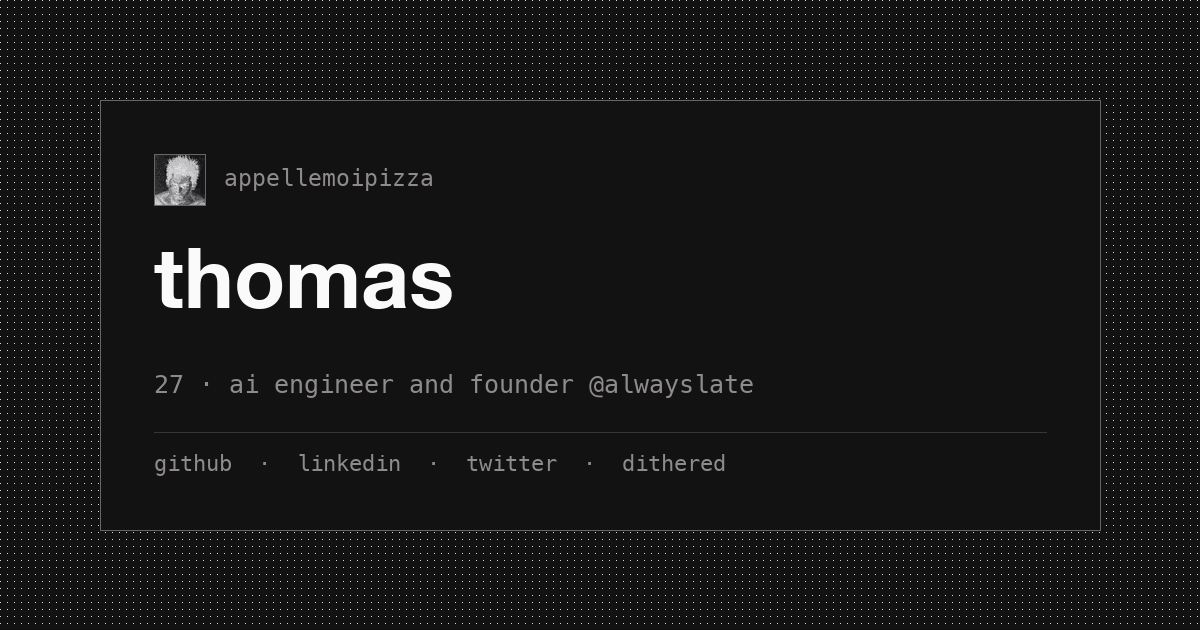
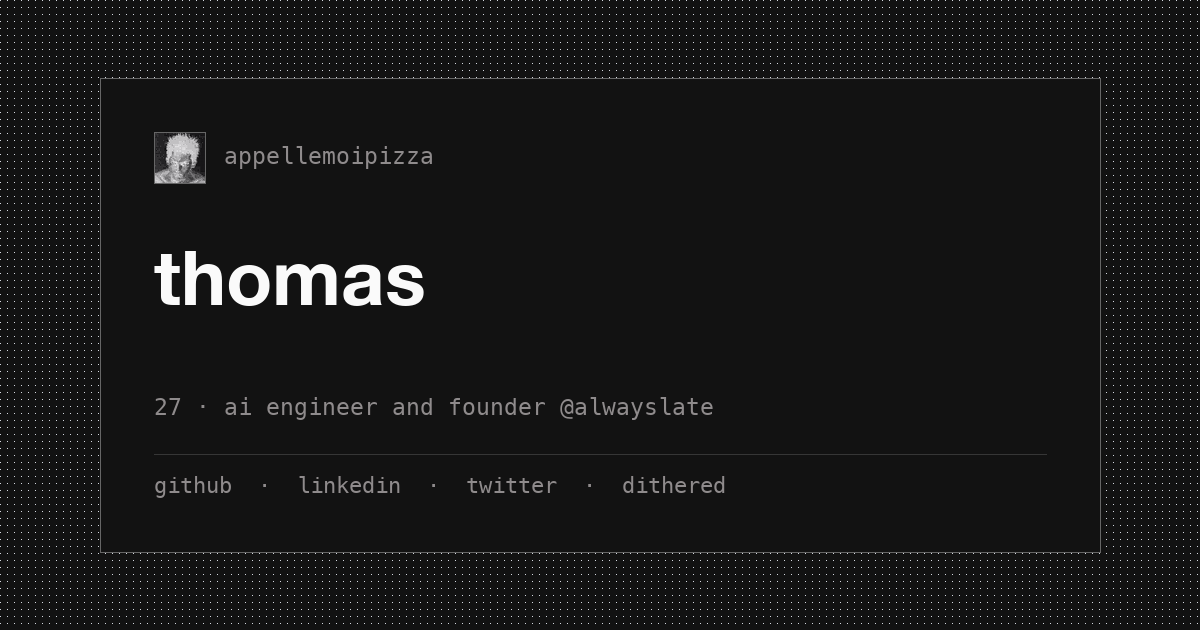
Generate a share card per article
Every post shared the same blog card, so a link to one article looked
identical to a link to any other. Add scripts/generate-og.py, which
reads each published note's frontmatter and renders a card carrying its
title, summary, date and read time in the existing GitHub-card layout.
Articles pass their own image through a new ogImage prop; other pages
keep the standing card.

Titles step down through a size ladder until the wrapped result fits
its vertical budget, so a long headline shrinks instead of riding up
into the identity row.

Run `npm run og` after adding or retitling a post and commit the
output: the deploy action installs Node only, so these are built here
rather than in CI.

Also fix the deploy smoke test, which still grepped the homepage for a
pseudonym removed several commits ago and so failed every run after
the site had already deployed.

diff --git a/scripts/generate-og.py b/scripts/generate-og.py
@@ -1,0 +1,193 @@
+#!/usr/bin/env python3
+"""Generate Open Graph share cards.
+
+Produces one card per published note, plus the two standing cards for the
+blog index and the id card page. Run via `npm run og` after adding or
+retitling a post, then commit the results: the deploy action installs only
+Node, so these are built here rather than in CI.
+"""
+
+import re
+from datetime import date
+from pathlib import Path
+
+from PIL import Image, ImageDraw, ImageFont, ImageOps
+
+ROOT = Path(__file__).resolve().parent.parent
+NOTES = ROOT / "src/data/notes"
+ASSETS = ROOT / "public/assets"
+OUT = ASSETS / "og"
+
+W, H = 1200, 630
+BG = (18, 18, 18, 255)
+BORDER = (102, 102, 102, 255)
+INK = (250, 250, 250, 255)
+MUTED = (143, 139, 140, 255)
+SOFT = (54, 54, 54, 255)
+
+BOLD = "/System/Library/Fonts/HelveticaNeue.ttc"
+MONO = "/System/Library/Fonts/Menlo.ttc"
+
+CX0, CY0, CX1, CY1 = 100, 78, W - 100, H - 78
+PAD = 54
+INNER = (CX1 - PAD) - (CX0 + PAD)
+
+
+def frame():
+    img = Image.new("RGBA", (W, H), BG)
+    d = ImageDraw.Draw(img)
+    for y in range(0, H, 7):
+        for x in range(0, W, 7):
+            d.point((x, y), fill=(212, 216, 224, 30))
+    d.rectangle([CX0, CY0, CX1, CY1], fill=BG, outline=BORDER, width=1)
+    return img, d
+
+
+def avatar(size):
+    av = ImageOps.invert(Image.open(ASSETS / "avatar-dither.png").convert("RGB"))
+    return av.resize((size, size), Image.LANCZOS).convert("RGBA")
+
+
+def wrap(d, text, font, width, max_lines):
+    """Greedy wrap measured against the real font, ellipsing any overflow."""
+    words, lines, cur = text.split(), [], ""
+    for word in words:
+        trial = f"{cur} {word}".strip()
+        if d.textlength(trial, font=font) <= width or not cur:
+            cur = trial
+        else:
+            lines.append(cur)
+            cur = word
+            if len(lines) == max_lines:
+                break
+    if cur and len(lines) < max_lines:
+        lines.append(cur)
+    if len(lines) == max_lines and len(" ".join(lines).split()) < len(words):
+        while lines[-1] and d.textlength(lines[-1] + "...", font=font) > width:
+            lines[-1] = lines[-1].rsplit(" ", 1)[0]
+        lines[-1] += "..."
+    return lines
+
+
+def compose(out, ident, desc, meta, title_img=None, title_text=None):
+    img, d = frame()
+    tx = CX0 + PAD
+
+    AV = 52
+    ay = CY0 + PAD
+    img.alpha_composite(avatar(AV), (tx, ay))
+    d.rectangle([tx, ay, tx + AV - 1, ay + AV - 1], outline=BORDER, width=1)
+    f_ident = ImageFont.truetype(MONO, 23)
+    ib = d.textbbox((0, 0), ident, font=f_ident)
+    d.text((tx + AV + 18 - ib[0], ay + (AV - (ib[3] - ib[1])) // 2 - ib[1]),
+           ident, font=f_ident, fill=MUTED)
+
+    # footer pinned to the bottom, the title block fills what remains
+    div_y = CY1 - PAD - 44
+    d.line([tx, div_y, CX1 - PAD, div_y], fill=SOFT, width=1)
+    f_meta = ImageFont.truetype(MONO, 22)
+    mb = d.textbbox((0, 0), meta, font=f_meta)
+    d.text((tx - mb[0], div_y + 22 - mb[1]), meta, font=f_meta, fill=MUTED)
+
+    f_desc = ImageFont.truetype(MONO, 23)
+    desc_lines = wrap(d, desc, f_desc, INNER, 2)
+    desc_lh = 31
+    desc_block = desc_lh * len(desc_lines)
+    desc_y = div_y - 26 - desc_block
+
+    title_top = ay + AV + 34
+    budget = desc_y - 24 - title_top
+
+    if title_img:
+        src = Image.open(title_img).convert("RGBA")
+        white = Image.new("RGBA", src.size, INK)
+        src = Image.composite(white, Image.new("RGBA", src.size, (0, 0, 0, 0)), src.split()[3])
+        tw = 430
+        src = src.resize((tw, round(src.height * tw / src.width)), Image.NEAREST)
+        img.alpha_composite(src, (tx, title_top + (budget - src.height) // 2))
+    else:
+        # step the size down until the wrapped title fits its budget, rather
+        # than letting a long title ride up into the identity row
+        for size in (76, 70, 64, 58, 52, 46, 42):
+            f_title = ImageFont.truetype(BOLD, size, index=1)
+            lines = wrap(d, title_text, f_title, INNER, 3)
+            lh = round(size * 1.16)
+            if lh * len(lines) <= budget:
+                break
+        y = title_top + (budget - lh * len(lines)) // 2
+        for line in lines:
+            tb = d.textbbox((0, 0), line, font=f_title)
+            d.text((tx - tb[0], y - tb[1]), line, font=f_title, fill=INK)
+            y += lh
+
+    y = desc_y
+    for line in desc_lines:
+        db = d.textbbox((0, 0), line, font=f_desc)
+        d.text((tx - db[0], y - db[1]), line, font=f_desc, fill=MUTED)
+        y += desc_lh
+
+    out.parent.mkdir(parents=True, exist_ok=True)
+    img.convert("RGB").save(out)
+    print(f"  {out.relative_to(ROOT)}")
+
+
+def parse_note(path):
+    raw = path.read_text()
+    m = re.match(r"^---\n(.*?)\n---\n(.*)$", raw, re.S)
+    if not m:
+        return None
+    fm, body = m.group(1), m.group(2)
+
+    def field(name):
+        hit = re.search(rf"^{name}:\s*(.+?)\s*$", fm, re.M)
+        return hit.group(1).strip().strip('"').strip("'") if hit else ""
+
+    if field("draft").lower() == "true":
+        return None
+    words = len([w for w in body.split() if w.strip()])
+    return {
+        "id": path.stem,
+        "title": field("title"),
+        "summary": field("summary"),
+        "date": field("date"),
+        "read": max(1, round(words / 200)),
+    }
+
+
+def main():
+    print("standing cards:")
+    compose(ASSETS / "og-card.png",
+            ident="appellemoipizza / dithered",
+            title_img=ASSETS / "dithered-wordmark-transparent.png",
+            desc="research notes, build logs, experiments",
+            meta="RSS  ·  github.com/appellemoipizza  ·  2026")
+    compose(ASSETS / "og-card-id.png",
+            ident="appellemoipizza",
+            title_text="thomas",
+            desc="27 · ai engineer and founder @alwayslate",
+            meta="github  ·  linkedin  ·  twitter  ·  dithered")
+
+    print("article cards:")
+    notes = sorted(p for p in NOTES.glob("*.md"))
+    built = 0
+    for path in notes:
+        note = parse_note(path)
+        if not note:
+            print(f"  skipped {path.stem} (draft)")
+            continue
+        try:
+            d = date.fromisoformat(note["date"])
+            stamp = d.strftime("%d/%m/%Y")
+        except ValueError:
+            stamp = note["date"]
+        compose(OUT / f"{note['id']}.png",
+                ident="appellemoipizza / dithered",
+                title_text=note["title"],
+                desc=note["summary"],
+                meta=f"{stamp}  ·  {note['read']} MIN READ  ·  THOMAS VEZZANI")
+        built += 1
+    print(f"\n{built} article card(s), 2 standing card(s)")
+
+
+if __name__ == "__main__":
+    main()
